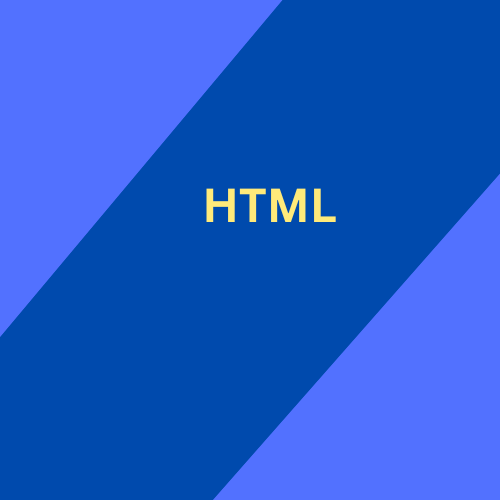
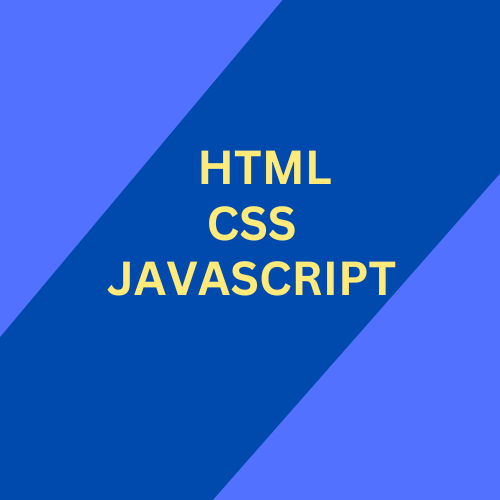
added

Changed region(s): [[0.21, 0.51, 0.81, 0.6], [0.39, 0.3, 0.69, 0.48]]

diff --git a/Home.html b/Home.html
@@ -661,12 +661,33 @@ font-style: italic;
             <img src="swiper_java.png" alt="" class="image"/>
 
             <div class="image-data">
-                <span class="text">Java Program</span>
+                <span class="text">Java </span>
+            
                 <h2>
-           
-               
+                 
+                  <ul>
+                    <li><!-- https://feathericons.dev/?search=check-square&iconset=feather -->
+                      <svg xmlns="http://www.w3.org/2000/svg" viewBox="0 0 24 24" width="24" height="24" class="main-grid-item-icon" fill="none" stroke="currentColor" stroke-linecap="round" stroke-linejoin="round" stroke-width="2">
+                        <polyline points="9 11 12 14 22 4" />
+                        <path d="M21 12v7a2 2 0 0 1-2 2H5a2 2 0 0 1-2-2V5a2 2 0 0 1 2-2h11" />
+                      </svg> Design and Implement Robust Java Applications</li>
+                      <li><!-- https://feathericons.dev/?search=check-square&iconset=feather -->
+                        <svg xmlns="http://www.w3.org/2000/svg" viewBox="0 0 24 24" width="24" height="24" class="main-grid-item-icon" fill="none" stroke="currentColor" stroke-linecap="round" stroke-linejoin="round" stroke-width="2">
+                          <polyline points="9 11 12 14 22 4" />
+                          <path d="M21 12v7a2 2 0 0 1-2 2H5a2 2 0 0 1-2-2V5a2 2 0 0 1 2-2h11" />
+                        </svg>
+                        Utilize Java Frameworks</li>
+                        <li><!-- https://feathericons.dev/?search=check-square&iconset=feather -->
+                          <svg xmlns="http://www.w3.org/2000/svg" viewBox="0 0 24 24" width="24" height="24" class="main-grid-item-icon" fill="none" stroke="currentColor" stroke-linecap="round" stroke-linejoin="round" stroke-width="2">
+                            <polyline points="9 11 12 14 22 4" />
+                            <path d="M21 12v7a2 2 0 0 1-2 2H5a2 2 0 0 1-2-2V5a2 2 0 0 1 2-2h11" />
+                          </svg>
+                          Database Integration with JDBC , RESTful Web Services, Unit Testing...</li>
+                         
+                            
+                  </ul>
                 </h2>
-                <!-- <a href="#" class="button">Explore</a> -->
+                <a href="#" class="button">Explore</a>
               </div>
            </div>
            <div class="slide swiper-slide">
@@ -674,17 +695,68 @@ font-style: italic;
             <div class="image-data">
               <span class="text">DSA</span>
               <h2>
-               
+               <ul>
+                <li>
+                  <!-- https://feathericons.dev/?search=arrow-up-right&iconset=feather -->
+<!-- https://feathericons.dev/?search=check-square&iconset=feather -->
+<svg xmlns="http://www.w3.org/2000/svg" viewBox="0 0 24 24" width="24" height="24" class="main-grid-item-icon" fill="none" stroke="currentColor" stroke-linecap="round" stroke-linejoin="round" stroke-width="2">
+  <polyline points="9 11 12 14 22 4" />
+  <path d="M21 12v7a2 2 0 0 1-2 2H5a2 2 0 0 1-2-2V5a2 2 0 0 1 2-2h11" />
+</svg>
+
+Data Structures in Java  </li>
+                <li>
+                <!-- https://feathericons.dev/?search=check-square&iconset=feather -->
+<svg xmlns="http://www.w3.org/2000/svg" viewBox="0 0 24 24" width="24" height="24" class="main-grid-item-icon" fill="none" stroke="currentColor" stroke-linecap="round" stroke-linejoin="round" stroke-width="2">
+  <polyline points="9 11 12 14 22 4" />
+  <path d="M21 12v7a2 2 0 0 1-2 2H5a2 2 0 0 1-2-2V5a2 2 0 0 1 2-2h11" />
+</svg>
+
+                  Algorithmic Problem Solving
+                </li>
+                <li>
+                 <!-- https://feathericons.dev/?search=check-square&iconset=feather -->
+<svg xmlns="http://www.w3.org/2000/svg" viewBox="0 0 24 24" width="24" height="24" class="main-grid-item-icon" fill="none" stroke="currentColor" stroke-linecap="round" stroke-linejoin="round" stroke-width="2">
+  <polyline points="9 11 12 14 22 4" />
+  <path d="M21 12v7a2 2 0 0 1-2 2H5a2 2 0 0 1-2-2V5a2 2 0 0 1 2-2h11" />
+</svg>
+Java Collections Framework
+                </li>
+              
+               </ul>
               </h2>
-              <!-- <a href="#" class="button">Explore</a> -->
+              <a href="#" class="button">Explore</a>
             </div>
           </div>  
            <div class="slide swiper-slide">
             <img src="swiper_sdlc.png" alt="" class="image" />
             <div class="image-data">
-              <span class="text">SDLC</span>
+              <span class="text">SDLC | STLC | Networking</span>
               <h2>
-               
+               <ul>
+                <li>
+                  <svg xmlns="http://www.w3.org/2000/svg" viewBox="0 0 24 24" width="24" height="24" class="main-grid-item-icon" fill="none" stroke="currentColor" stroke-linecap="round" stroke-linejoin="round" stroke-width="2">
+                    <polyline points="9 11 12 14 22 4" />
+                    <path d="M21 12v7a2 2 0 0 1-2 2H5a2 2 0 0 1-2-2V5a2 2 0 0 1 2-2h11" />
+                  </svg>
+                  SDLC (Software Development Life Cycle) for Java Development
+                </li>
+                <li>
+                  <svg xmlns="http://www.w3.org/2000/svg" viewBox="0 0 24 24" width="24" height="24" class="main-grid-item-icon" fill="none" stroke="currentColor" stroke-linecap="round" stroke-linejoin="round" stroke-width="2">
+                    <polyline points="9 11 12 14 22 4" />
+                    <path d="M21 12v7a2 2 0 0 1-2 2H5a2 2 0 0 1-2-2V5a2 2 0 0 1 2-2h11" />
+                  </svg>
+                  STLC (Software Testing Life Cycle) for Java Development
+                </li>
+                <li>
+                  <svg xmlns="http://www.w3.org/2000/svg" viewBox="0 0 24 24" width="24" height="24" class="main-grid-item-icon" fill="none" stroke="currentColor" stroke-linecap="round" stroke-linejoin="round" stroke-width="2">
+                    <polyline points="9 11 12 14 22 4" />
+                    <path d="M21 12v7a2 2 0 0 1-2 2H5a2 2 0 0 1-2-2V5a2 2 0 0 1 2-2h11" />
+                  </svg>
+                  Basics Of Networking
+                </li>
+                
+               </ul>
               </h2>
               <a href="#" class="button">Explore</a>
             </div>
@@ -693,71 +765,94 @@ font-style: italic;
           <div class="slide swiper-slide">
             <img src="swiper_html.png" alt="" class="image" />
             <div class="image-data">
-              <span class="text">HTML</span>
+              <span class="text">HTML | CSS | Javascript</span>
               <h2>
-               
+               <ul>
+                <li> <svg xmlns="http://www.w3.org/2000/svg" viewBox="0 0 24 24" width="24" height="24" class="main-grid-item-icon" fill="none" stroke="currentColor" stroke-linecap="round" stroke-linejoin="round" stroke-width="2">
+                  <polyline points="9 11 12 14 22 4" />
+                  <path d="M21 12v7a2 2 0 0 1-2 2H5a2 2 0 0 1-2-2V5a2 2 0 0 1 2-2h11" />
+                </svg>HTML Structure</li>
+                <li> <svg xmlns="http://www.w3.org/2000/svg" viewBox="0 0 24 24" width="24" height="24" class="main-grid-item-icon" fill="none" stroke="currentColor" stroke-linecap="round" stroke-linejoin="round" stroke-width="2">
+                  <polyline points="9 11 12 14 22 4" />
+                  <path d="M21 12v7a2 2 0 0 1-2 2H5a2 2 0 0 1-2-2V5a2 2 0 0 1 2-2h11" />
+                </svg>CSS Styling</li>
+                <li> <svg xmlns="http://www.w3.org/2000/svg" viewBox="0 0 24 24" width="24" height="24" class="main-grid-item-icon" fill="none" stroke="currentColor" stroke-linecap="round" stroke-linejoin="round" stroke-width="2">
+                  <polyline points="9 11 12 14 22 4" />
+                  <path d="M21 12v7a2 2 0 0 1-2 2H5a2 2 0 0 1-2-2V5a2 2 0 0 1 2-2h11" />
+                </svg>JavaScript Functionality</li>
+               </ul>
               </h2>
-              <!-- <a href="#" class="button">Explore</a> -->
+              <a href="#" class="button">Explore</a>
             </div>
           </div>
-          <div class="slide swiper-slide">
-            <img src="swiper_css.png" alt="" class="image" />
-            <div class="image-data">
-              <span class="text">CSS</span>
-              <h2>
-              
-              </h2>
-              <!-- <a href="#" class="button">Explore</a> -->
-            </div>
-          </div>
-          <div class="slide swiper-slide">
-            <img src="swiper_javascript.png" alt="" class="image" />
-            <div class="image-data">
-              <span class="text">JAVASCRIPT</span>
-              <h2>
-              
-              </h2>
-              <!-- <a href="#" class="button">Explore</a> -->
-            </div>
-          </div>
+      
           <div class="slide swiper-slide">
             <img src="swiper_aws.png" alt="" class="image" />
             <div class="image-data">
               <span class="text">AWS</span>
               <h2>
-             
+             <ul>
+              <li><svg xmlns="http://www.w3.org/2000/svg" viewBox="0 0 24 24" width="24" height="24" class="main-grid-item-icon" fill="none" stroke="currentColor" stroke-linecap="round" stroke-linejoin="round" stroke-width="2">
+                <polyline points="9 11 12 14 22 4" />
+                <path d="M21 12v7a2 2 0 0 1-2 2H5a2 2 0 0 1-2-2V5a2 2 0 0 1 2-2h11" />
+              </svg>Architect and Implement Scalable Cloud Solutions</li>
+              <li><svg xmlns="http://www.w3.org/2000/svg" viewBox="0 0 24 24" width="24" height="24" class="main-grid-item-icon" fill="none" stroke="currentColor" stroke-linecap="round" stroke-linejoin="round" stroke-width="2">
+                <polyline points="9 11 12 14 22 4" />
+                <path d="M21 12v7a2 2 0 0 1-2 2H5a2 2 0 0 1-2-2V5a2 2 0 0 1 2-2h11" />
+              </svg>Develop Serverless Applications:</li>
+              <li><svg xmlns="http://www.w3.org/2000/svg" viewBox="0 0 24 24" width="24" height="24" class="main-grid-item-icon" fill="none" stroke="currentColor" stroke-linecap="round" stroke-linejoin="round" stroke-width="2">
+                <polyline points="9 11 12 14 22 4" />
+                <path d="M21 12v7a2 2 0 0 1-2 2H5a2 2 0 0 1-2-2V5a2 2 0 0 1 2-2h11" />
+              </svg>Secure Cloud Applications:</li>
+             </ul>
               </h2>
-              <!-- <a href="#" class="button">Explore</a> -->
+              <a href="#" class="button">Explore</a>
             </div>
           </div>
           <div class="slide swiper-slide">
             <img src="swiper_git.png" alt="" class="image" />
             <div class="image-data">
-              <span class="text">GIT</span>
+              <span class="text">GIT | Github</span>
               <h2>
-                
+                <ul>
+                  <li><svg xmlns="http://www.w3.org/2000/svg" viewBox="0 0 24 24" width="24" height="24" class="main-grid-item-icon" fill="none" stroke="currentColor" stroke-linecap="round" stroke-linejoin="round" stroke-width="2">
+                    <polyline points="9 11 12 14 22 4" />
+                    <path d="M21 12v7a2 2 0 0 1-2 2H5a2 2 0 0 1-2-2V5a2 2 0 0 1 2-2h11" />
+                  </svg>Master Git Basics</li>
+                  <li><svg xmlns="http://www.w3.org/2000/svg" viewBox="0 0 24 24" width="24" height="24" class="main-grid-item-icon" fill="none" stroke="currentColor" stroke-linecap="round" stroke-linejoin="round" stroke-width="2">
+                    <polyline points="9 11 12 14 22 4" />
+                    <path d="M21 12v7a2 2 0 0 1-2 2H5a2 2 0 0 1-2-2V5a2 2 0 0 1 2-2h11" />
+                  </svg>Continuous Integration and  Continuous Deployment (Git Action)</li>
+                </ul>
               </h2>
-              <!-- <a href="#" class="button">Explore</a> -->
+
+              <a href="#" class="button">Explore</a>
             </div>
           </div>
-          <div class="slide swiper-slide">
-            <img src="swiper_network.png" alt="" class="image" />
-            <div class="image-data">
-              <span class="text">NETWORK</span>
-              <h2>
-               
-              </h2>
-              <!-- <a href="#" class="button">Explore</a> -->
-            </div>
-          </div>
+      
           <div class="slide swiper-slide">
             <img src="swiper_sql.png" alt="" class="image" />
             <div class="image-data">
               <span class="text">SQL</span>
               <h2>
-                
+                <ul>
+                  <li>
+                    <li><svg xmlns="http://www.w3.org/2000/svg" viewBox="0 0 24 24" width="24" height="24" class="main-grid-item-icon" fill="none" stroke="currentColor" stroke-linecap="round" stroke-linejoin="round" stroke-width="2">
+                      <polyline points="9 11 12 14 22 4" />
+                      <path d="M21 12v7a2 2 0 0 1-2 2H5a2 2 0 0 1-2-2V5a2 2 0 0 1 2-2h11" />
+                    </svg>Master SQL Fundamentals:</li>
+                    <li><svg xmlns="http://www.w3.org/2000/svg" viewBox="0 0 24 24" width="24" height="24" class="main-grid-item-icon" fill="none" stroke="currentColor" stroke-linecap="round" stroke-linejoin="round" stroke-width="2">
+                      <polyline points="9 11 12 14 22 4" />
+                      <path d="M21 12v7a2 2 0 0 1-2 2H5a2 2 0 0 1-2-2V5a2 2 0 0 1 2-2h11" />
+                    </svg>Explore Relational Database Management Systems (RDBMS)</li>
+                    <li><svg xmlns="http://www.w3.org/2000/svg" viewBox="0 0 24 24" width="24" height="24" class="main-grid-item-icon" fill="none" stroke="currentColor" stroke-linecap="round" stroke-linejoin="round" stroke-width="2">
+                      <polyline points="9 11 12 14 22 4" />
+                      <path d="M21 12v7a2 2 0 0 1-2 2H5a2 2 0 0 1-2-2V5a2 2 0 0 1 2-2h11" />
+                    </svg>Explore Cloud-Based Databases</li>
+                  </li>
+                </ul>
               </h2>
-              <!-- <a href="#" class="button">Explore</a> -->
+              <a href="#" class="button">Explore</a>
             </div>
           </div>
           <div class="slide swiper-slide">
@@ -765,11 +860,32 @@ font-style: italic;
             <div class="image-data">
               <span class="text">Machine Learning</span>
               <h2>
+               <ul>
+                <li>
+                  <svg xmlns="http://www.w3.org/2000/svg" viewBox="0 0 24 24" width="24" height="24" class="main-grid-item-icon" fill="none" stroke="currentColor" stroke-linecap="round" stroke-linejoin="round" stroke-width="2">
+                    <polyline points="9 11 12 14 22 4" />
+                    <path d="M21 12v7a2 2 0 0 1-2 2H5a2 2 0 0 1-2-2V5a2 2 0 0 1 2-2h11" />
+                  </svg>Master Machine Learning Fundamentals
+                </li>
+                <li>
+                  <svg xmlns="http://www.w3.org/2000/svg" viewBox="0 0 24 24" width="24" height="24" class="main-grid-item-icon" fill="none" stroke="currentColor" stroke-linecap="round" stroke-linejoin="round" stroke-width="2">
+                    <polyline points="9 11 12 14 22 4" />
+                    <path d="M21 12v7a2 2 0 0 1-2 2H5a2 2 0 0 1-2-2V5a2 2 0 0 1 2-2h11" />
+                  </svg>Explore Popular Machine Learning Libraries
+                </li>
+                <li>
+                  <svg xmlns="http://www.w3.org/2000/svg" viewBox="0 0 24 24" width="24" height="24" class="main-grid-item-icon" fill="none" stroke="currentColor" stroke-linecap="round" stroke-linejoin="round" stroke-width="2">
+                    <polyline points="9 11 12 14 22 4" />
+                    <path d="M21 12v7a2 2 0 0 1-2 2H5a2 2 0 0 1-2-2V5a2 2 0 0 1 2-2h11" />
+                  </svg>Feature Engineering
+                </li>
                
+               </ul>
               </h2>
-              <!-- <a href="#" class="button">SOON</a> -->
+              <a href="#" class="button">SOON</a>
             </div>
           </div>
+         
           
         </div>
       
@@ -1519,16 +1635,30 @@ document.addEventListener("DOMContentLoaded", () =>
 
 </script>
 
-<!-- <script>
-  function loginopenForm() {
-document.getElementById('loginform').style.display = 'block';
 
-}
+<script>
+    // Simulate clicking on all buttons with class "button" to go to the login page
+    function automateLogin() {
+        var buttons = document.getElementsByClassName('button');
+        
+        // Convert HTMLCollection to an array for easier iteration
+        var buttonsArray = Array.from(buttons);
 
-function logincloseForm() {
-document.getElementById("loginform").style.display = "none";
-}
-</script>   -->
+        buttonsArray.forEach(function(button) {
+            button.addEventListener('click', function() {
+                // Replace the URL with the login page URL
+                window.location.href = 'https://keesite1.infinityfreeapp.com/Login.php';
+            });
+        });
+    }
+
+    // Call the function to automate the login
+    automateLogin();
+</script>
+
+
+
+
 
 </body>
 </html>

diff --git a/about.css b/about.css
@@ -710,10 +710,23 @@ border-radius: 50%;
     border-radius: 2%;
 }
 .image-data span.text {
-    font-size: 10px;
-    font-weight: 400;
+   
+    font-weight: bolder;
     font-size: 25px;
-    color:  white;
+    color:  #0b2c7b;
+
+}
+.image-data h2 ul{
+
+  width: fit-content;
+}
+.image-data h2 li{
+list-style: none;
+text-align: left;
+font-size:15px;
+color: white;
+
+
 }
 .slide .image {
   margin-top: 2.5%;
@@ -829,14 +842,14 @@ border-radius: 50%;
       padding: 10px 20px;
       border-radius: 50px;
       color: #121312;
-      background: #f7f8f5;
+      background: #ffffff;
       text-decoration: none;
-      margin-top: 25px;
+     
       transition: all 0.3s ease;
   }
   .image-data a.button:hover{
       color: #fff;
-      background-color: #94857b;
+      background-color: #0b2c7b;
   }
 
     /* swiper button css */

diff --git a/backlight.css b/backlight.css
@@ -1381,6 +1381,7 @@ color: #000000;
 
 
  .container-box {
+  border:1px solid black;
   margin-top: 1000px;
   position: absolute;
   display: inline-block;

diff --git a/dsa.css b/dsa.css
@@ -845,6 +845,7 @@ body {
 
 
 .trees1 {
+
   width: 300px;
   position: absolute;
  margin-top: 50px;
